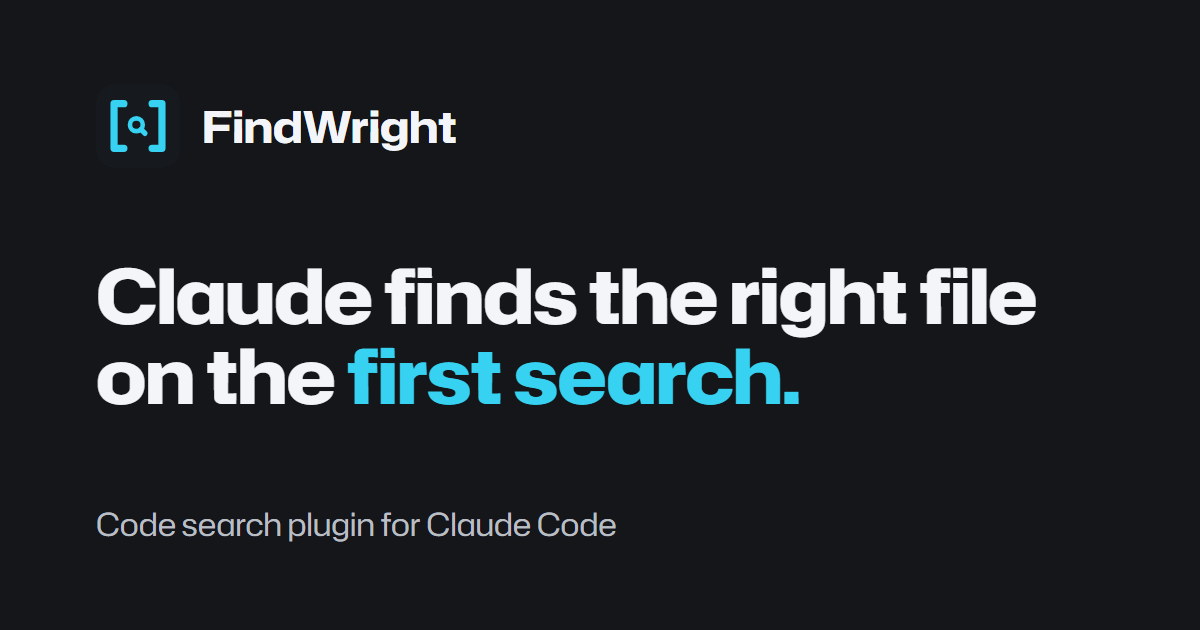
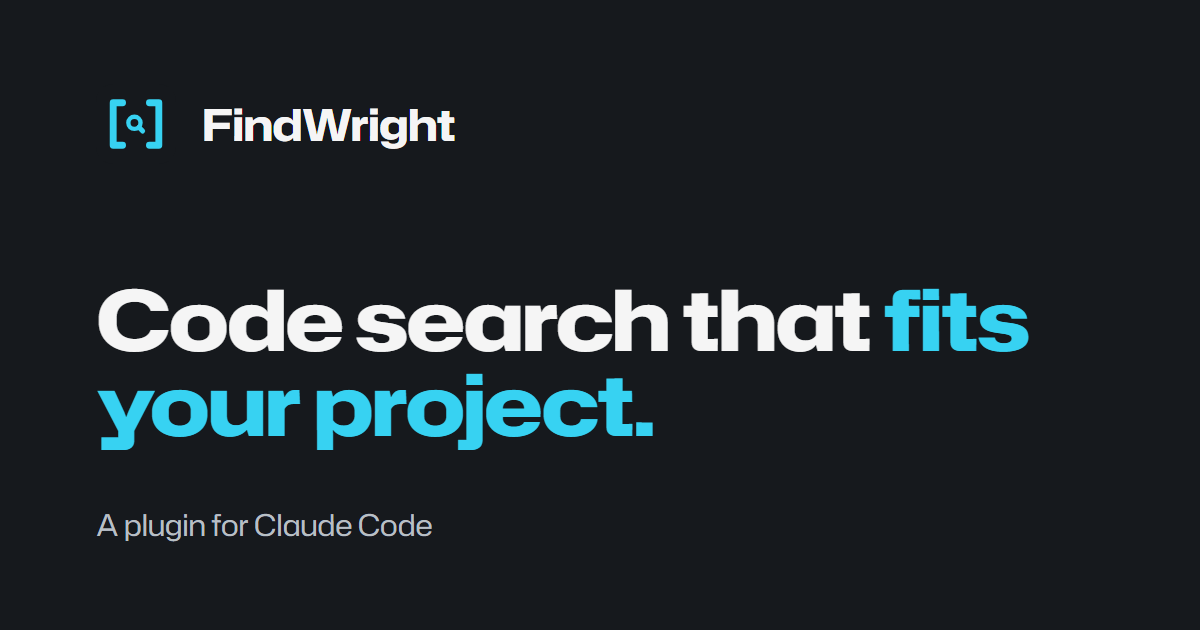
docs(page): rewrite the copy from the maintainer's answers

Changed region(s): [[0.0617, 0.4222, 0.8633, 0.7238], [0.0617, 0.8143, 0.5242, 0.8746], [0.0925, 0.1508, 0.37, 0.2413]]

diff --git a/page/index.html b/page/index.html
@@ -3,24 +3,24 @@
 <head>
 <meta charset="utf-8">
 <meta name="viewport" content="width=device-width, initial-scale=1">
-<title>FindWright: plain-words code search for Claude Code</title>
-<meta name="description" content="FindWright helps Claude find the right file in your project on the first search, with short answers that leave room for the work.">
+<title>FindWright: code search that fits your project, for Claude Code</title>
+<meta name="description" content="FindWright gives Claude an index of every file your project tracks, with rules Claude writes for your code, so a question in plain words comes back as the files that answer it.">
 <link rel="canonical" href="https://starfoxcom.github.io/findwright/">
 <link rel="icon" href="icon.svg" type="image/svg+xml">
 <meta property="og:type" content="website">
 <meta property="og:site_name" content="FindWright">
-<meta property="og:title" content="FindWright: plain-words code search for Claude Code">
-<meta property="og:description" content="FindWright helps Claude find the right file in your project on the first search, with short answers that leave room for the work.">
+<meta property="og:title" content="FindWright: code search that fits your project, for Claude Code">
+<meta property="og:description" content="FindWright gives Claude an index of every file your project tracks, with rules Claude writes for your code, so a question in plain words comes back as the files that answer it.">
 <meta property="og:url" content="https://starfoxcom.github.io/findwright/">
 <meta property="og:image" content="https://starfoxcom.github.io/findwright/share.png">
 <meta property="og:image:width" content="1200">
 <meta property="og:image:height" content="630">
-<meta property="og:image:alt" content="FindWright: Claude finds the right file on the first search.">
+<meta property="og:image:alt" content="FindWright: code search that fits your project.">
 <meta name="twitter:card" content="summary_large_image">
-<meta name="twitter:title" content="FindWright: plain-words code search for Claude Code">
-<meta name="twitter:description" content="FindWright helps Claude find the right file in your project on the first search, with short answers that leave room for the work.">
+<meta name="twitter:title" content="FindWright: code search that fits your project, for Claude Code">
+<meta name="twitter:description" content="FindWright gives Claude an index of every file your project tracks, with rules Claude writes for your code, so a question in plain words comes back as the files that answer it.">
 <meta name="twitter:image" content="https://starfoxcom.github.io/findwright/share.png">
-<meta name="twitter:image:alt" content="FindWright: Claude finds the right file on the first search.">
+<meta name="twitter:image:alt" content="FindWright: code search that fits your project.">
 <script type="application/ld+json">
 {
   "@context": "https://schema.org",
@@ -54,7 +54,7 @@
 <header>
   <a class="mark" href="./">FindWright</a>
   <nav aria-label="Site">
-    <a href="#how">How it works</a>
+    <a href="#changes">What changes</a>
     <a href="#install">Install</a>
     <a href="https://github.com/starfoxcom/findwright">GitHub</a>
   </nav>
@@ -63,8 +63,8 @@
 <main>
   <section class="hero">
     <div class="pitch">
-      <h1>Claude finds the right file on the first search.</h1>
-      <p class="lede">FindWright gives Claude an index of every file in your project, so a question in plain words comes back as the few files that answer it, in milliseconds. One install, and it works in every project.</p>
+      <h1>Code search that fits your project.</h1>
+      <p class="lede">FindWright gives Claude an index of every file your project tracks, and Claude writes the rules that name your code, so a question in plain words comes back as the few files that answer it. Any language, any file format, and one install covers every project.</p>
       <div class="actions">
         <a class="go" href="#install">Install FindWright</a>
         <a class="source" href="https://github.com/starfoxcom/findwright">View on GitHub</a>
@@ -118,21 +118,35 @@
     </div>
   </section>
 
-  <section class="changes" aria-labelledby="changes-title">
+  <section class="why" aria-labelledby="why-title">
+    <h2 id="why-title">Why it exists</h2>
+    <div class="why-text">
+      <p>FindWright started because the search we used before kept falling short of the bar we set: at least 9 searches in 10 should name the file Claude opens next. Every miss means Claude searches again, and each extra search spends tokens the session could have spent on the change you asked for.</p>
+      <p>Search tools also tend to understand only the languages they ship support for, so a project outside that list falls back to plain text. FindWright doesn't follow that approach, since Claude tends to copy built-in support as it is instead of looking at the project in front of it.</p>
+      <p>So FindWright ships no languages at all. Claude reads your project and writes the rules that name its code, which makes a shader, a mod script or a config format nobody has heard of searchable by name like everything else.</p>
+    </div>
+  </section>
+
+  <section class="changes" id="changes" aria-labelledby="changes-title">
     <h2 id="changes-title">What changes</h2>
+    <p class="section-note">Claude calls FindWright's tools on its own. You keep asking in your own words.</p>
     <ul>
       <li><span class="was">Claude searches again and again, one guess at a time</span>
         <b>It asks once and gets the files that answer</b>
-        <span>A question in plain words, a name, or both, comes back as the files that answer it, best first.</span></li>
+        <span>A question in plain words, a name, or both, comes back as the files that answer it, best first, ranked by what they're about as well as the words they share. Without its meaning model (32 MB), Find says so instead of quietly ranking worse.</span>
+        <span class="chip">Find</span></li>
       <li><span class="was">Long search results fill up the session</span>
         <b>Short answers leave room for the work</b>
-        <span>The typical answer is a few lines that point at the right place, so more of each session goes to the change you asked for.</span></li>
-      <li><span class="was">Docs and settings get left out of the search</span>
-        <b>Every file the project tracks is searched</b>
-        <span>Code, docs, config and templates sit in the same index, so the answer can be a guide as easily as a function.</span></li>
+        <span>Each hit names the function, heading or key it sits in, and a file's parts come with their line ranges, so Claude reads only the part it needs.</span>
+        <span class="chip">Search, symbols and outline</span></li>
+      <li><span class="was">Only the languages a tool supports get searched by name</span>
+        <b>Every file the project tracks is named</b>
+        <span>Claude reads what your project holds and writes the rules that name its functions, types, keys and headings, in code, docs, config and templates alike, and tries them before saving.</span>
+        <span class="chip">Fit</span></li>
       <li><span class="was">The index falls behind your edits</span>
         <b>Answers match your files as they are now</b>
-        <span>Each search first takes in the files that changed, so there is nothing to refresh by hand.</span></li>
+        <span>Each search first takes in the files that changed, so there is nothing to refresh by hand.</span>
+        <span class="chip">Every search</span></li>
     </ul>
   </section>
 
@@ -164,33 +178,6 @@
         <li class="legend-item"><i class="swatch seg-hit"></i>Named the file</li>
         <li class="legend-item"><i class="swatch seg-miss"></i>Did not</li>
       </ul>
-    </div>
-  </section>
-
-  <section class="how" id="how" aria-labelledby="how-title">
-    <h2 id="how-title">How Claude uses it</h2>
-    <p class="section-note">Four tools Claude calls on its own. You keep asking in your own words.</p>
-    <div class="boxes">
-      <div class="box">
-        <h3><span class="ico"><svg viewBox="0 0 24 24" fill="none" stroke="currentColor" stroke-width="2" stroke-linecap="round" stroke-linejoin="round" aria-hidden="true"><circle cx="11" cy="11" r="6"/><path d="m20 20-4.5-4.5"/></svg></span>Find</h3>
-        <p>A plain-English question, a name, or both: the files that answer it, best first.</p>
-        <span class="chip">Files, best first</span>
-      </div>
-      <div class="box">
-        <h3><span class="ico"><svg viewBox="0 0 24 24" fill="none" stroke="currentColor" stroke-width="2" stroke-linecap="round" stroke-linejoin="round" aria-hidden="true"><path d="M4 6h16M4 12h10M4 18h7"/></svg></span>Search</h3>
-        <p>Patterns over every tracked file, with the lines around each hit and the function, heading or key it sits in.</p>
-        <span class="chip">Matching lines</span>
-      </div>
-      <div class="box">
-        <h3><span class="ico"><svg viewBox="0 0 24 24" fill="none" stroke="currentColor" stroke-width="2" stroke-linecap="round" stroke-linejoin="round" aria-hidden="true"><path d="M8 6h12M8 12h12M8 18h12"/><path d="M4 6h.01M4 12h.01M4 18h.01"/></svg></span>Symbols and outline</h3>
-        <p>Names by kind, and one file's parts with their line ranges, so Claude reads only the part it needs.</p>
-        <span class="chip">Line ranges</span>
-      </div>
-      <div class="box">
-        <h3><span class="ico"><svg viewBox="0 0 24 24" fill="none" stroke="currentColor" stroke-width="2" stroke-linecap="round" stroke-linejoin="round" aria-hidden="true"><path d="M12 3v3M12 18v3M3 12h3M18 12h3"/><circle cx="12" cy="12" r="4"/></svg></span>Fits each project</h3>
-        <p>Claude reads what your project holds and writes the rules that name its functions, types, keys and headings, in any language, so nothing waits on built-in support.</p>
-        <span class="chip">Pattern rules</span>
-      </div>
     </div>
   </section>
 

diff --git a/page/style.css b/page/style.css
@@ -92,19 +92,24 @@ h1 {
 }
 .go:active { transform: translateY(2px); box-shadow: inset 0 -1px 0 var(--accent-deep); }
 
-/* What changes takes the biggest heading; the sections after it share the next size. */
-.changes, .live, .how, .install { margin-top: 120px; }
-.changes h2 {
-  margin-bottom: 36px; font-size: clamp(36px, 4vw, 56px); line-height: 1;
-  font-weight: 700; font-stretch: 112%; letter-spacing: -0.03em;
-}
-.live h2, .how h2, .install h2 {
+/* Every section after the hero shares one heading size. */
+.why, .changes, .live, .install { margin-top: 120px; }
+.why h2, .changes h2, .live h2, .install h2 {
   font-size: clamp(30px, 3.2vw, 44px); line-height: 1.05;
   font-weight: 700; font-stretch: 112%; letter-spacing: -0.03em;
 }
-.live h2, .how h2 { margin-bottom: 14px; }
+.why h2 { margin-bottom: 20px; }
+.changes h2, .live h2 { margin-bottom: 14px; }
+.why p { max-width: 66ch; font-size: 17px; color: var(--text-2); }
+.why p + p { margin-top: 16px; }
+/* Wide screens: one wide column under the heading, so the text spans most of the page. */
+@media (min-width: 1000px) {
+  .why p { max-width: 92ch; font-size: 19px; }
+}
 .section-note { max-width: 72ch; font-size: 15px; color: var(--text-2); }
 
+.changes .section-note { margin-bottom: 28px; }
+.changes .chip { display: block; width: fit-content; }
 .changes ul {
   display: grid; grid-template-columns: repeat(2, minmax(0, 1fr)); gap: 0 48px; padding: 0; list-style: none;
 }
@@ -193,7 +198,7 @@ footer {
   .hero .lede, .hero .actions { order: 1; }
   .hero .cards, .hero .scene-note { order: 2; }
   .hero .stage .cards { margin-top: 32px; }
-  .changes, .live, .how, .install { margin-top: 88px; }
+  .why, .changes, .live, .install { margin-top: 88px; }
   .changes ul { grid-template-columns: minmax(0, 1fr); }
 }
 

diff --git a/page/scene.css b/page/scene.css
@@ -73,15 +73,15 @@
 
 /* What the scene shows, one card each, in a row under the window. */
 .stage .cards { display: grid; grid-template-columns: repeat(3, minmax(0, 1fr)); gap: 2cqi; margin-top: 2cqi; }
-.stage .card, .boxes .box {
+.stage .card {
   padding: 1.1em 1.2em; border-radius: 18px; background: oklch(0.27 0.008 240 / .92);
   border: 1px solid var(--rule); box-shadow: 0 24px 60px -24px oklch(0 0 0 / .7);
 }
 .stage .card { font-size: clamp(12px, 1.45cqi, 16px); }
-.stage .card h3, .boxes .box h3 {
+.stage .card h3 {
   display: flex; align-items: center; gap: .6em; font-size: 1.05em; font-weight: 700; font-stretch: 108%;
 }
-.stage .card p, .boxes .box p { margin-top: .4em; font-size: .92em; color: var(--text-2); }
+.stage .card p { margin-top: .4em; font-size: .92em; color: var(--text-2); }
 .stage .scene-note { margin-top: 14px; font-size: 13px; color: var(--text-2); text-align: center; }
 
 .ico {
@@ -94,12 +94,8 @@
   background: oklch(1 0 0 / .06); color: var(--text-2);
 }
 
-/* How Claude uses it: one box per tool, two to a row. */
-.boxes { display: grid; grid-template-columns: repeat(2, minmax(0, 1fr)); gap: 20px; margin-top: 28px; }
-.boxes .box { display: flex; flex-direction: column; align-items: flex-start; font-size: 17px; }
-
 @media (max-width: 640px) {
-  .stage .cards, .boxes { grid-template-columns: minmax(0, 1fr); }
+  .stage .cards { grid-template-columns: minmax(0, 1fr); }
   .stage .card { font-size: 15px; }
 }
 
